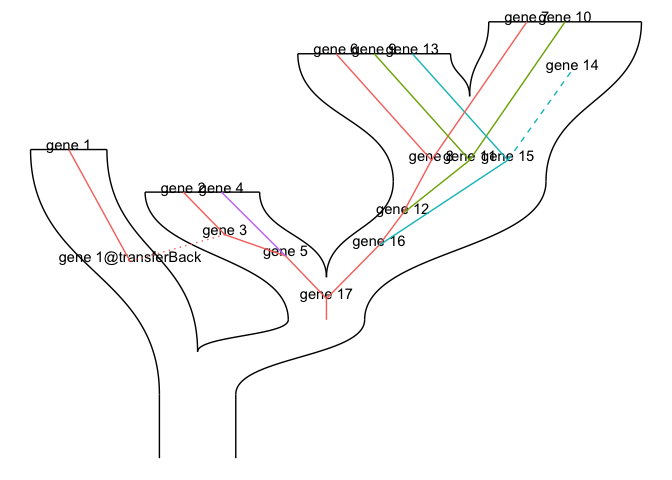
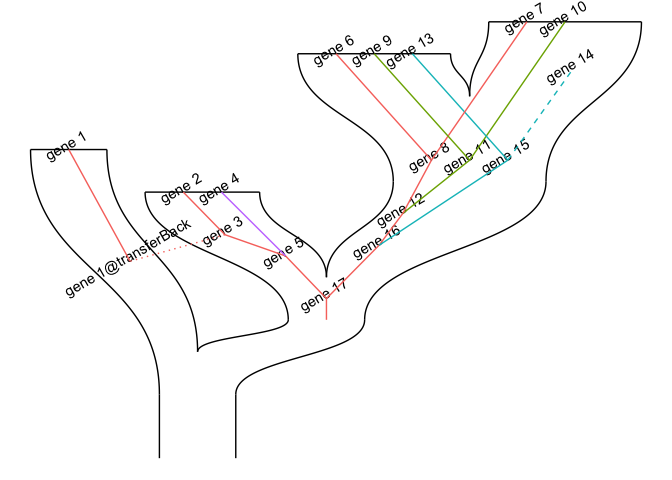
update readme

diff --git a/README.md b/README.md
@@ -653,7 +653,7 @@ recphylo_layout_diagonal <- layout_recphylo(recphylo_xml, branch_length_scale = 
 ggplot() +
   ggforce::geom_diagonal(data = recphylo_layout_diagonal$spEdges, aes(x, y, xend = xend, yend = yend), orientation = "y") +
   # geom_point(data = recphylo_layout_diagonal$recGeneEdges, aes(xend, yend)) +
-  geom_text(data = recphylo_layout_diagonal$recGeneEdges, aes(xend, yend, label = name), vjust = 0) +
+  geom_text(data = recphylo_layout_diagonal$recGeneEdges, aes(xend, yend, label = name), vjust = 0, angle = 30) +
   geom_segment(data = recphylo_layout_diagonal$recGeneEdges, aes(x, y, xend = xend, yend = yend, color = lineage, linetype = event_type), show.legend = F) +
   scale_linetype_manual(values = c("loss" = 2, "transferBack" = 3), na.value = 1)
 ```
@@ -665,7 +665,7 @@ ggplot() +
 ggplot() +
   ggforce::geom_diagonal(data = recphylo_layout_diagonal$spEdges, aes(x, y, xend = xend, yend = yend), orientation = "y") +
   # geom_point(data = recphylo_layout_diagonal$recGeneEdges, aes(xend, yend)) +
-  geom_text(data = recphylo_layout_diagonal$recGeneEdges, aes(xend, yend, label = name), vjust = 0) +
+  geom_text(data = recphylo_layout_diagonal$recGeneEdges, aes(xend, yend, label = name), vjust = 0, angle = 30) +
   geom_curve(data = recphylo_layout_diagonal$recGeneEdges[recphylo_layout_diagonal$recGeneEdges$side == "left", ], aes(x, y, xend = xend, yend = yend, color = lineage, linetype = event_type), show.legend = F, curvature = -0.3) +
   geom_curve(data = recphylo_layout_diagonal$recGeneEdges[recphylo_layout_diagonal$recGeneEdges$side == "right", ], aes(x, y, xend = xend, yend = yend, color = lineage, linetype = event_type), show.legend = F, curvature = 0.3) +
   geom_curve(data = recphylo_layout_diagonal$recGeneEdges[recphylo_layout_diagonal$recGeneEdges$side == "root", ], aes(x, y, xend = xend, yend = yend, color = lineage, linetype = event_type), show.legend = F, curvature = 0) +
@@ -679,7 +679,7 @@ ggplot() +
 ggplot() +
   geom_segment(data = recphylo_layout_diagonal$spEdges, aes(x, y, xend = xend, yend = yend), orientation = "y") +
   # geom_point(data = recphylo_layout_diagonal$recGeneEdges, aes(xend, yend)) +
-  geom_text(data = recphylo_layout_diagonal$recGeneEdges, aes(xend, yend, label = name), vjust = 0) +
+  geom_text(data = recphylo_layout_diagonal$recGeneEdges, aes(xend, yend, label = name), vjust = 0, angle = 30) +
   ggforce::geom_diagonal(data = recphylo_layout_diagonal$recGeneEdges, aes(x, y, xend = xend, yend = yend, color = lineage, linetype = event_type), show.legend = F, orientation = "y") +
   scale_linetype_manual(values = c("loss" = 2, "transferBack" = 3), na.value = 1)
 #> Warning in geom_segment(data = recphylo_layout_diagonal$spEdges, aes(x, :
